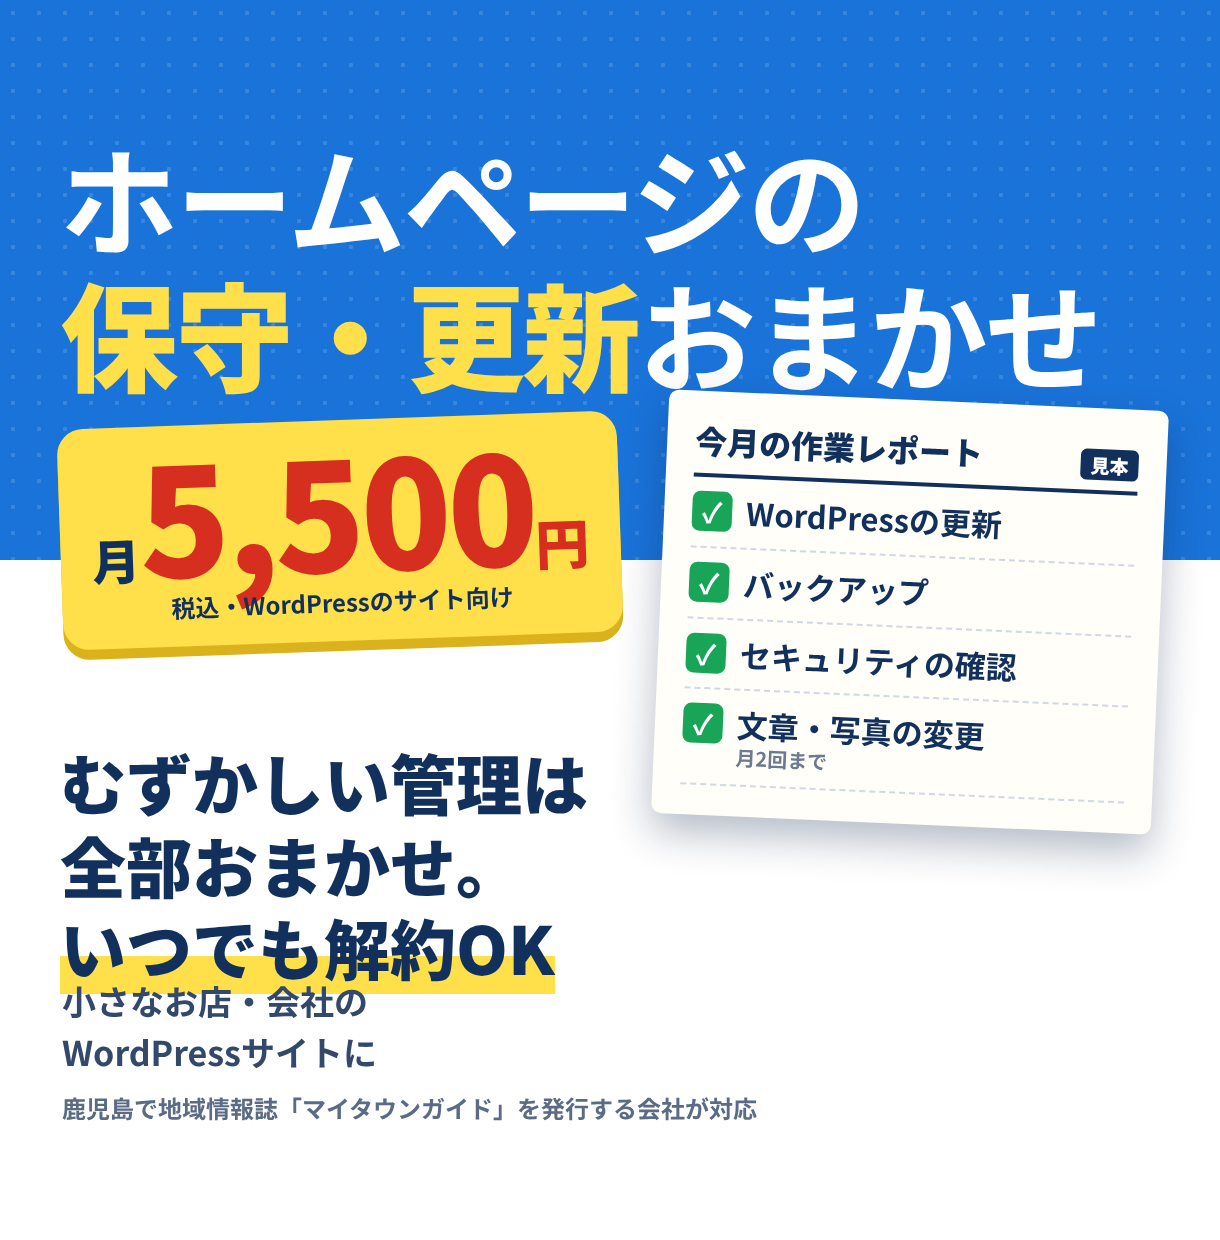
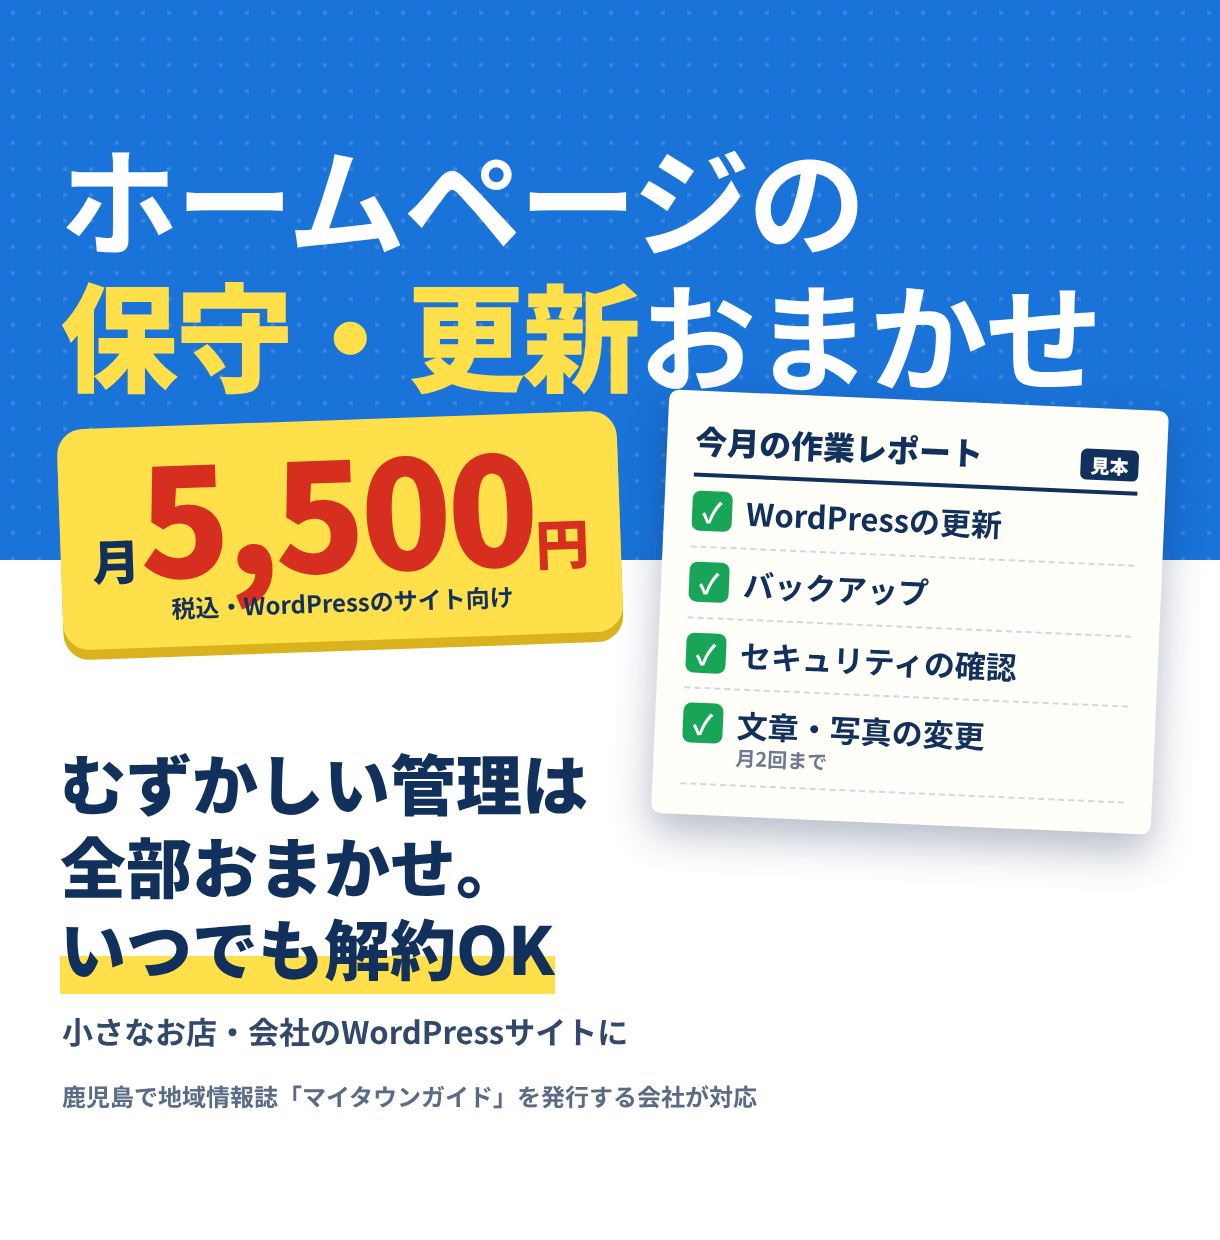
他社画像を含む比較画像をリポジトリから外す、作業途中を保存
Claude-Session: https://claude.ai/code/session_01AEUD4zPwRUJjiL4jRp8EAN

Changed region(s): [[0.0311, 0.7968, 0.623, 0.9194]]

diff --git a/docs/coconala/images/v2/src_hp/thumbs.html b/docs/coconala/images/v2/src_hp/thumbs.html
@@ -39,11 +39,11 @@ body{width:1220px;height:1240px;overflow:hidden;position:relative;font-family:"N
 #hpC .wh{left:-80px;top:560px;width:900px;height:700px;background:#fff;transform:rotate(-4deg)}
 #hpC h1{left:60px;top:126px;font-size:128px;line-height:1.12;letter-spacing:-.03em}
 #hpC h1 span{display:inline-block;background:#1b1b1b;color:#ffd93b;padding:0 18px 8px;margin-left:-8px}
-#hpC .n{left:54px;top:620px;font-size:178px;z-index:3;text-shadow:0 0 0 #fff,4px 4px 0 #fff,-4px -4px 0 #fff,4px -4px 0 #fff,-4px 4px 0 #fff;line-height:1;color:#d62f1f;letter-spacing:-.04em}
-#hpC .y{left:60px;top:806px;font-size:52px}#hpC .y b{font-size:86px;color:#d62f1f}
-#hpC .pl{left:60px;top:548px;font-size:50px;background:#d62f1f;color:#fff;padding:2px 22px 6px;border-radius:10px}
-#hpC .ck{left:60px;top:940px;font-size:38px;font-weight:700;line-height:1.5}
-#hpC .tr{left:60px;top:1078px;font-size:24px;font-weight:700;color:#444}
+#hpC .n{left:54px;top:646px;font-size:178px;z-index:3;text-shadow:0 0 0 #fff,4px 4px 0 #fff,-4px -4px 0 #fff,4px -4px 0 #fff,-4px 4px 0 #fff;line-height:1;color:#d62f1f;letter-spacing:-.04em}
+#hpC .y{left:60px;top:826px;font-size:52px}#hpC .y b{font-size:86px;color:#d62f1f}
+#hpC .pl{left:60px;top:578px;font-size:50px;background:#d62f1f;color:#fff;padding:2px 22px 6px;border-radius:10px}
+#hpC .ck{left:60px;top:952px;font-size:38px;font-weight:700;line-height:1.5}
+#hpC .tr{left:60px;top:1076px;font-size:24px;font-weight:700;color:#444}
 /* 04 A */
 #hoA{background:#e2f3dc;color:#1c4a2f;font-family:"M PLUS Rounded 1c","Noto Sans JP",sans-serif;font-weight:900}
 #hoA .tag{left:70px;top:132px;font-size:38px;font-weight:800;color:#2f8a4f}
@@ -71,8 +71,8 @@ body{width:1220px;height:1240px;overflow:hidden;position:relative;font-family:"N
 #hoB .rep li:before{content:"✓";position:absolute;left:0;top:14px;width:40px;height:40px;background:#18a558;color:#fff;border-radius:8px;text-align:center;line-height:40px;font-size:28px}
 #hoB .rep li small{display:block;font-size:20px;color:#6b7a90}
 #hoB .kai{left:60px;top:740px;font-size:66px;line-height:1.25}#hoB .kai b{background:linear-gradient(transparent 60%,#ffe04a 60%)}
-#hoB .who{left:62px;top:975px;font-size:34px;font-weight:700;line-height:1.5;color:#33496b}
-#hoB .tr{left:62px;top:1090px;font-size:24px;font-weight:700;color:#5b6b85}
+#hoB .who{left:62px;top:1008px;font-size:31px;font-weight:700;line-height:1.5;color:#33496b}
+#hoB .tr{left:62px;top:1078px;font-size:24px;font-weight:700;color:#5b6b85}
 /* 04 C */
 #hoC{background:#fbf6ea;color:#2a2a2a}
 #hoC h1{left:0;right:0;top:128px;text-align:center;font-size:94px;white-space:nowrap;line-height:1.2;letter-spacing:-.02em}#hoC h1 b{color:#0d8a6a}
@@ -127,7 +127,7 @@ body{width:1220px;height:1240px;overflow:hidden;position:relative;font-family:"N
  <div class="a memo hand">お知らせが3年前のまま…</div>
  <div class="a rt"><div class="o">毎月まるごと<br>おまかせください</div><div class="p"><small>月</small><b>5,500</b><i>円</i></div></div>
  <div class="a kai">いつでも解約OK</div>
- <div class="a" style="left:480px;top:1008px;font-size:30px;font-weight:800;line-height:1.3;font-family:'Noto Sans JP'">WordPress更新・バックアップ<br>文章や写真の変更（月2回まで）</div><div class="a tr">鹿児島で地域情報誌「マイタウンガイド」を発行する会社が対応　※画面は見本</div>
+ <div class="a" style="left:540px;top:1006px;font-size:29px;font-weight:800;line-height:1.3;font-family:'Noto Sans JP'">WordPress更新・バックアップ<br>文章や写真の変更（月2回まで）</div><div class="a tr">鹿児島で地域情報誌「マイタウンガイド」を発行する会社が対応　※画面は見本</div>
 </div>
 
 <div class="v" id="hoB">
@@ -136,7 +136,7 @@ body{width:1220px;height:1240px;overflow:hidden;position:relative;font-family:"N
  <div class="a pb"><small>月</small><b>5,500</b><i>円</i><em>税込・WordPressのサイト向け</em></div>
  <div class="a rep"><h3>今月の作業レポート<small>見本</small></h3><ul><li>WordPressの更新</li><li>バックアップ</li><li>セキュリティの確認</li><li>文章・写真の変更<small>月2回まで</small></li></ul></div>
  <div class="a kai">むずかしい管理は<br>全部おまかせ。<br><b>いつでも解約OK</b></div>
- <div class="a who">小さなお店・会社の<br>WordPressサイトに</div><div class="a tr">鹿児島で地域情報誌「マイタウンガイド」を発行する会社が対応</div>
+ <div class="a who">小さなお店・会社のWordPressサイトに</div><div class="a tr">鹿児島で地域情報誌「マイタウンガイド」を発行する会社が対応</div>
 </div>
 
 <div class="v paper" id="hoC">

diff --git a/docs/coconala/images/v2/src_ai/b.html b/docs/coconala/images/v2/src_ai/b.html
@@ -4,23 +4,24 @@
 *{box-sizing:border-box;margin:0;padding:0}
 body{width:1220px;height:1240px;overflow:hidden;position:relative;font-family:"M PLUS Rounded 1c",sans-serif;background:#00b3a7;color:#12303a}
 .tag{position:absolute;left:0;top:112px;width:100%;background:#12303a;color:#fff;font-weight:900;font-size:62px;text-align:center;padding:2px 0 10px;letter-spacing:.02em}
-h1{position:absolute;left:0;width:100%;top:214px;text-align:center;font-weight:900;line-height:1.02;white-space:nowrap;color:#fff;-webkit-text-stroke:14px #12303a;paint-order:stroke fill}
+h1{position:absolute;left:0;width:100%;top:204px;text-align:center;font-weight:900;line-height:1.02;white-space:nowrap;color:#fff;-webkit-text-stroke:14px #12303a;paint-order:stroke fill}
 h1 b{display:block;font-size:186px;letter-spacing:-.06em}
 h1 span{display:block;font-size:216px;color:#ffe600;letter-spacing:-.03em}
-.bub{position:absolute;font-weight:900;font-size:100px;white-space:nowrap;padding:8px 40px 20px;border:8px solid #12303a;letter-spacing:-.03em;box-shadow:8px 10px 0 #12303a}
-.me{right:40px;top:650px;background:#fff;border-radius:60px 60px 8px 60px}
-.ai{left:40px;top:836px;background:#ffe600;border-radius:8px 60px 60px 60px}
+.bub{position:absolute;font-weight:900;font-size:94px;white-space:nowrap;padding:4px 40px 16px;border:8px solid #12303a;letter-spacing:-.03em;box-shadow:8px 10px 0 #12303a}
+.me{right:40px;top:622px;background:#fff;border-radius:60px 60px 8px 60px}
+.ai{left:40px;top:790px;background:#ffe600;border-radius:8px 60px 60px 60px}
 .ai u{text-decoration:none;display:inline-block;background:#12303a;color:#fff;font-size:60px;border-radius:50%;width:104px;height:104px;line-height:98px;text-align:center;vertical-align:middle;margin:0 16px 0 -14px}
-.ph{position:absolute;right:-70px;top:900px;width:470px;height:470px;border-radius:50%;border:10px solid #fff;background:url(photos/pexels-461077.jpg) 72% 46%/1150px auto;z-index:-0}
-.price{position:absolute;left:40px;top:1030px;background:#e60012;color:#fff;font-weight:900;border-radius:18px;padding:0 26px 8px;white-space:nowrap}
+.ph{position:absolute;right:-60px;top:870px;width:440px;height:440px;border-radius:50%;border:10px solid #fff;background:url(photos/pexels-4065876.jpg) 56% 62%/1250px auto;z-index:-0}
+.price{position:absolute;left:40px;top:952px;background:#e60012;color:#fff;font-weight:900;border-radius:18px;padding:0 26px 8px;white-space:nowrap}
 .price small{font-size:58px;color:#ffe600}.price b{font-size:104px;letter-spacing:-.02em}.price i{font-style:normal;font-size:54px}
 .me,.ai,.price{z-index:2}
-.trust{position:absolute;left:0;top:1160px;font-size:1px}
+.trust{position:absolute;left:40px;top:1082px;font-size:25px;font-weight:800;color:#fff;background:#12303a;padding:2px 12px 5px;border-radius:6px;white-space:nowrap;z-index:2}
 </style></head><body>
 <div class="tag">AIの使い方、1対1で教えます</div>
 <h1><b>パソコン苦手</b><span>でもOK！</span></h1>
 <div class="ph"></div>
 <div class="bub me">求人文を書いて</div>
 <div class="bub ai"><u>AI</u>はい、できました！</div>
+<div class="trust">鹿児島で地域情報誌「マイタウンガイド」を発行する会社が教えます</div>
 <div class="price"><small>60分 </small><b>11,000</b><i>円</i></div>
 </body></html>

diff --git a/docs/coconala/images/v2/src_ai/c.html b/docs/coconala/images/v2/src_ai/c.html
@@ -3,7 +3,7 @@
 <style>
 *{box-sizing:border-box;margin:0;padding:0}
 body{width:1220px;height:1240px;overflow:hidden;position:relative;font-family:"Noto Sans JP",sans-serif;background:#1238c8;color:#fff}
-.ph{position:absolute;right:0;top:0;width:520px;height:1240px;background:url(photos/pexels-4065876.jpg) 52% 100%/1900px auto}
+.ph{position:absolute;right:0;top:0;width:520px;height:1240px;background:url(photos/pexels-461077.jpg) 68% 50%/auto 1240px}
 .ph:after{content:"";position:absolute;left:0;top:0;bottom:0;width:14px;background:#ffe600}
 .top{position:absolute;left:44px;top:118px;font-weight:900;font-size:66px;white-space:nowrap}
 .top em{font-style:normal;background:#e60012;padding:0 16px 6px;border-radius:8px}

diff --git a/docs/coconala/images/v2/src_hp/compare.py b/docs/coconala/images/v2/src_hp/compare.py
@@ -1,0 +1,13 @@
+# 売れている画像の一覧（スクラッチパッド）と、うちの6案を同じ大きさで並べる
+from PIL import Image,ImageDraw,ImageFont
+R='/tmp/claude-0/-home-user-turtlead-reels/98039a62-44c3-5ee8-bbca-2d7f968b9a31/scratchpad/coconala_research/sheets/'
+hp=Image.open(R+'hp_top.png').convert('RGB');wp=Image.open(R+'wphosyu_top.png').convert('RGB')
+s=0.72;hp=hp.resize((int(hp.width*s),int(hp.height*s)));wp=wp.resize(hp.size)
+tw=int(360*s)+2;th=int(tw/1.208)
+o=Image.new('RGB',(hp.width+2*tw+90+wp.width,hp.height),'white');o.paste(hp,(0,0));o.paste(wp,(hp.width+2*tw+90,0))
+d=ImageDraw.Draw(o);f=ImageFont.truetype('/usr/share/fonts/opentype/ipafont-gothic/ipagp.ttf',22)
+x0=hp.width+30;d.text((x0,20),'うちの案（一覧と同じ切り取り）',fill='red',font=f)
+for i,n in enumerate(['03_hp_A','03_hp_B','03_hp_C','04_hosyu_A','04_hosyu_B','04_hosyu_C']):
+    im=Image.open(f'../{n}.png').convert('RGB').crop((0,115,1220,1125)).resize((tw,th),Image.LANCZOS)
+    x=x0+(i%2)*(tw+15);y=70+(i//2)*(th+60);o.paste(im,(x,y));d.text((x,y+th+6),n,fill='black',font=f)
+o.save('../compare_03_04.png')
